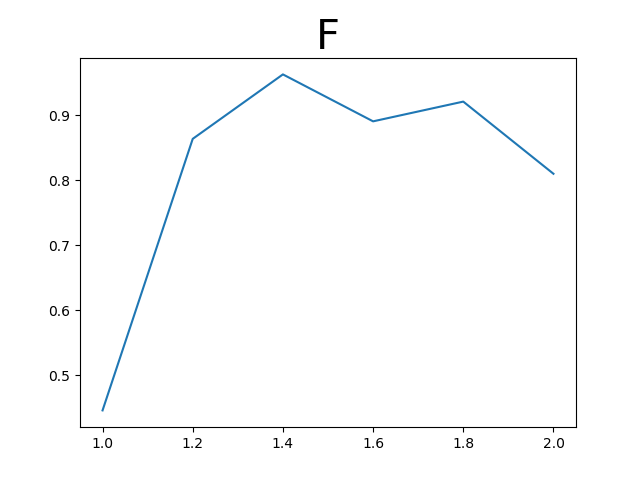
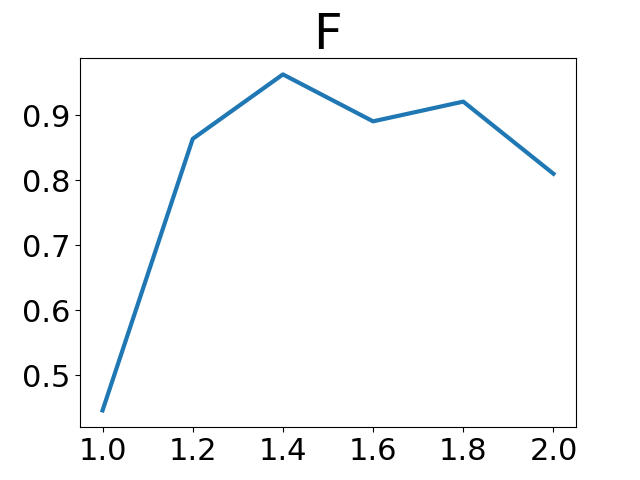
set fontsize & linewidth in plots

diff --git a/utils/plot_pcap_results.py b/utils/plot_pcap_results.py
@@ -19,6 +19,8 @@ if __name__ == '__main__':
 
     for metric_name in metric_names:
         plt.figure()
-        plt.title(metric_name, fontsize=30)
-        plt.plot(lgbm_weights.keys(), [value_dict[metric_name] for value_dict in lgbm_weights.values()])
+        plt.title(metric_name, fontsize=36)
+        plt.plot(lgbm_weights.keys(), [value_dict[metric_name] for value_dict in lgbm_weights.values()], linewidth=3)
+        plt.xticks(fontsize=22)
+        plt.yticks(fontsize=22)
         plt.savefig(os.path.join('..', 'pcap_results', 'lgbm_weights_{}'.format(metric_name)))
